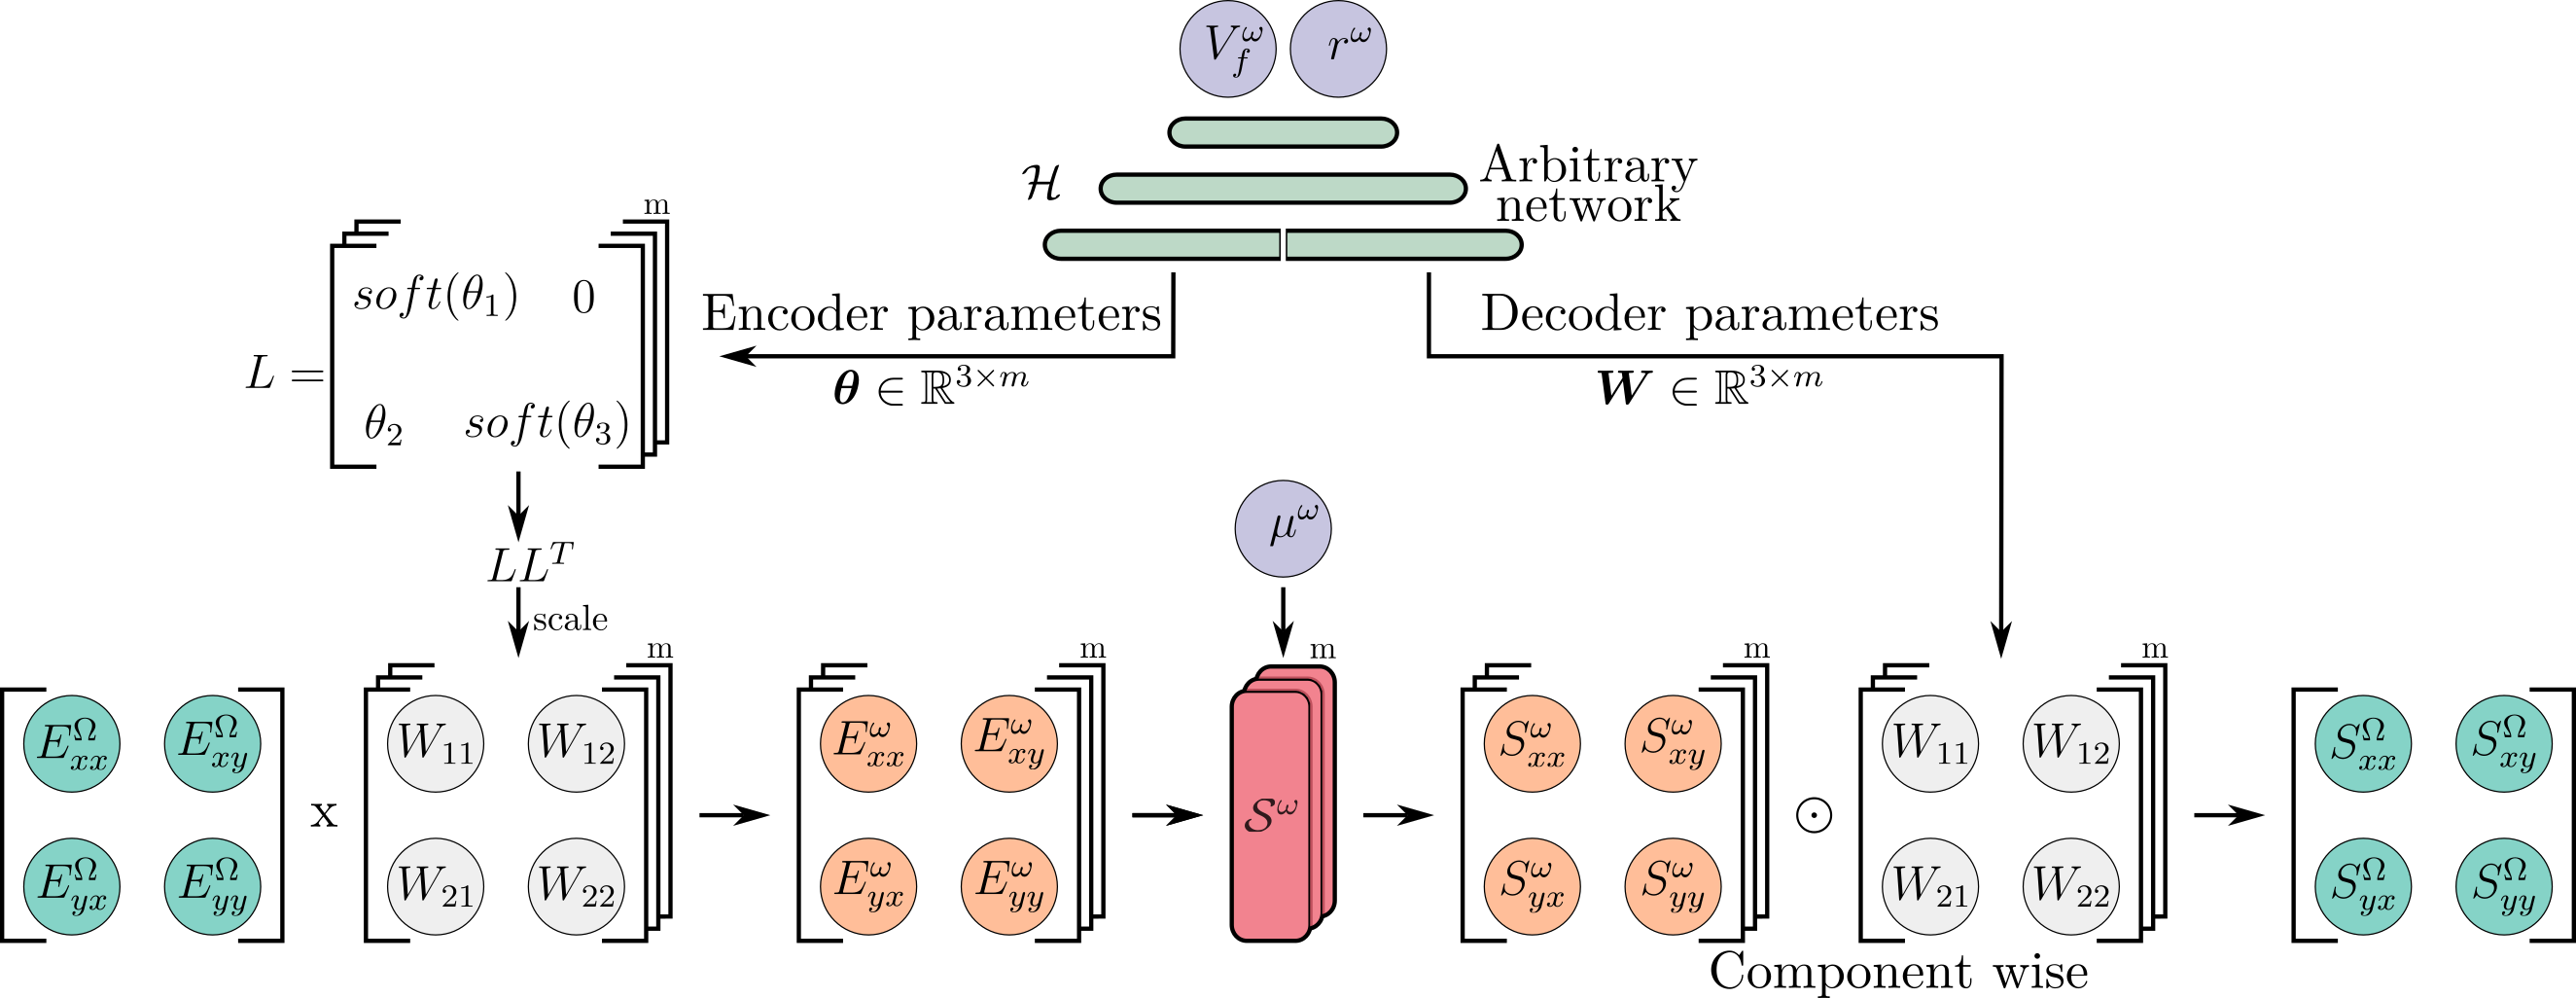
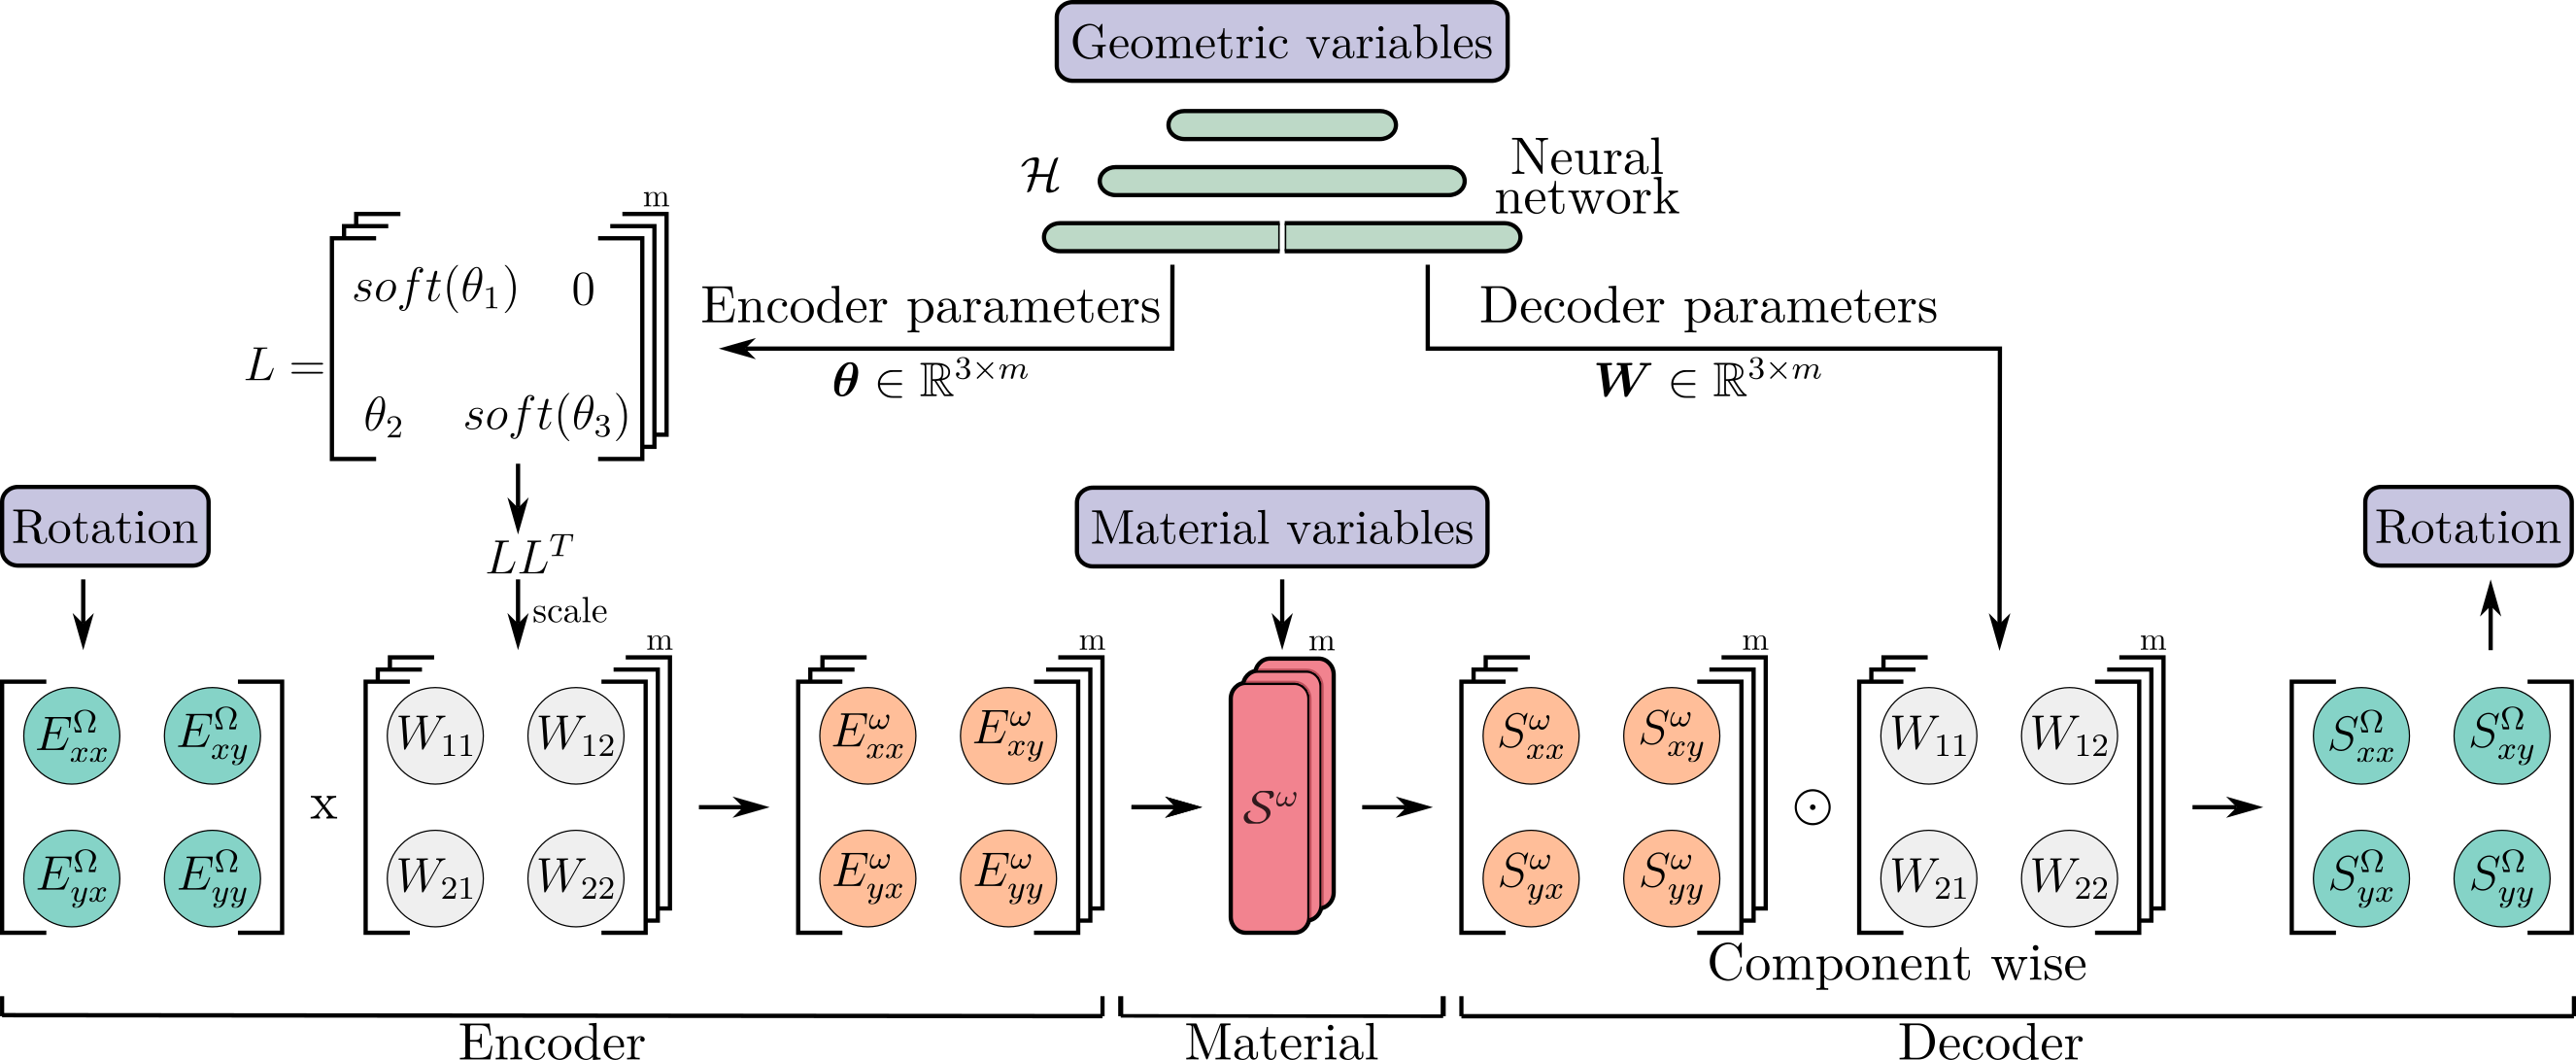
hyprnn visuals

diff --git a/_portfolio/hyprnn.md b/_portfolio/hyprnn.md
@@ -14,7 +14,7 @@ header:
 
 This work was performed in collaboration with Iuri Rocha, Sarah Schyck, Kunal Masania, and Frans van der Meer.
 
-Multiscale optimization of microstructured sustainable materials needs surrogate models, but training one across a range of microstructures normally demands prohibitive amounts of data. The work solves this by conditioning a hybrid physics-data surrogate on microstructural variables through a hypernetwork, a HyPRNN, which stays accurate on small datasets and is validated against a full FE$^2$ simulation of a mycelium-woodchip composite. Applied to a functionally graded disk it cuts peak stress by 42% versus a random microstructure, and conditioning directly on manufacturing variables extends the approach into a practical route for engineering the microscale to hit target macroscale behavior. 
+Multiscale optimization of microstructured sustainable materials needs surrogate models, but training one across a range of microstructures normally demands prohibitive amounts of data. The work solves this by conditioning a hybrid physics-data surrogate on microstructural variables through a hypernetwork, a HyPRNN, which stays accurate on small datasets and is validated against a full FE² simulation of a mycelium-woodchip composite. Applied to a functionally graded disk it cuts peak stress by 42% versus a random microstructure, and conditioning directly on manufacturing variables extends the approach into a practical route for engineering the microscale to hit target macroscale behavior. 
 
 Link to preprint: <https://arxiv.org/abs/2607.13688> 
 
@@ -27,7 +27,7 @@ GitHub Repository link: <https://github.com/JoepStorm/HyPRNN>
 
 ## Multiscale optimization
 
-The HyPRNN makes accurate predictions based on only 32 training samples. We validate this in a FE$^2$ simulation
+The HyPRNN makes accurate predictions based on only 32 training samples. We validate this in an FE² simulation
 <figure>
   <img src="/images/projects/hyprnn/val_deformation.png" alt="val_deformation" style="max-width: 800px; margin: 0 auto;">
   <figcaption>Multiscale simulations of the ground truth (top left), and various surrogate models. The HyPRNN performs well, even in the low-data regime. </figcaption>
@@ -53,7 +53,7 @@ Parametrizing the microstructure is challenging, and some other works resolve th
 This allows realistic optimization of multiscale simulation, such as to control the macroscopic deformation. 
 
 <figure class="half">
-  <img src="/images/projects/hyprnn/grav_dep_baseline.png" alt="grav_dep_baseline" style="max-height: 300px; margin: 0 auto;">
-  <img src="/images/projects/hyprnn/grav_dep_optimal_crop.png" alt="grav_dep_optimal_crop" style="max-height: 300px; margin: 0 auto;">
-  <figcaption>Macroscale deformation can be controlled; here the goal was to minimize the horizontal deformation of the center hole. </figcaption>
+  <img src="/images/projects/hyprnn/grav_dep_baseline.png" alt="grav_dep_baseline" style="max-width: 324px; margin: 0 auto;">
+  <img src="/images/projects/hyprnn/grav_dep_optimal_crop.png" alt="grav_dep_optimal_crop" style="max-width: 300px; margin: 0 auto;">
+  <figcaption>Macroscale deformation can be controlled. The left figure shows the reference deformation and the right figure shows the optimized deformation and woodchip placement. The goal was to minimize the horizontal deformation of the center hole. </figcaption>
 </figure>